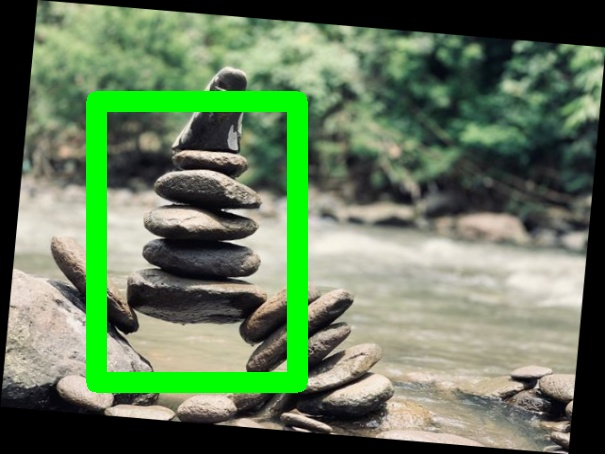
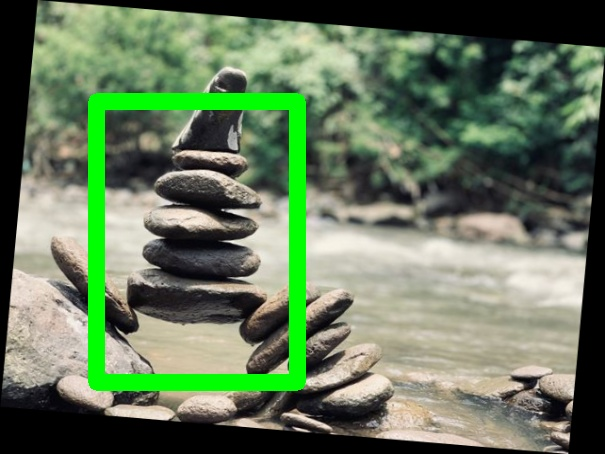
improved README

Changed region(s): [[0.119, 0.185, 0.5355, 0.8943]]

diff --git a/src/discolight/doc.py b/src/discolight/doc.py
@@ -175,7 +175,7 @@ def make_augmentation_doc_object(augmentation, sample_image_path,
     save_image(
         os.path.join(output_dir,
                      "{}-input-bboxes.jpg".format(augmentation.__name__)),
-        image, annotations, (0, 255, 0), 8)
+        image, annotations, (0, 255, 0), 15)
 
     bboxes = annotations_to_numpy_array(annotations)
 
@@ -190,7 +190,7 @@ def make_augmentation_doc_object(augmentation, sample_image_path,
     save_image(
         os.path.join(output_dir,
                      "{}-bboxes.jpg".format(augmentation.__name__)),
-        augmented_image, augmented_annotations, (0, 255, 0), 8)
+        augmented_image, augmented_annotations, (0, 255, 0), 15)
 
     doc_object["sample_image"] = "{}-input.jpg".format(augmentation.__name__)
     doc_object["sample_image_bboxes"] = "{}-input-bboxes.jpg".format(

diff --git a/src/discolight/augmentations/bbox_utilities/bbox_utilities.py b/src/discolight/augmentations/bbox_utilities/bbox_utilities.py
@@ -13,7 +13,7 @@ def draw_rect(img, bboxes, color=None, stroke=None):
         pt1 = int(pt1[0]), int(pt1[1])
         pt2 = int(pt2[0]), int(pt2[1])
         stroke = int(max(img.shape[:2]) / 200) if stroke is None else stroke
-        img = cv2.rectangle(img.copy(), pt1, pt2, color, 20)
+        img = cv2.rectangle(img.copy(), pt1, pt2, color, stroke)
     return img
 
 
